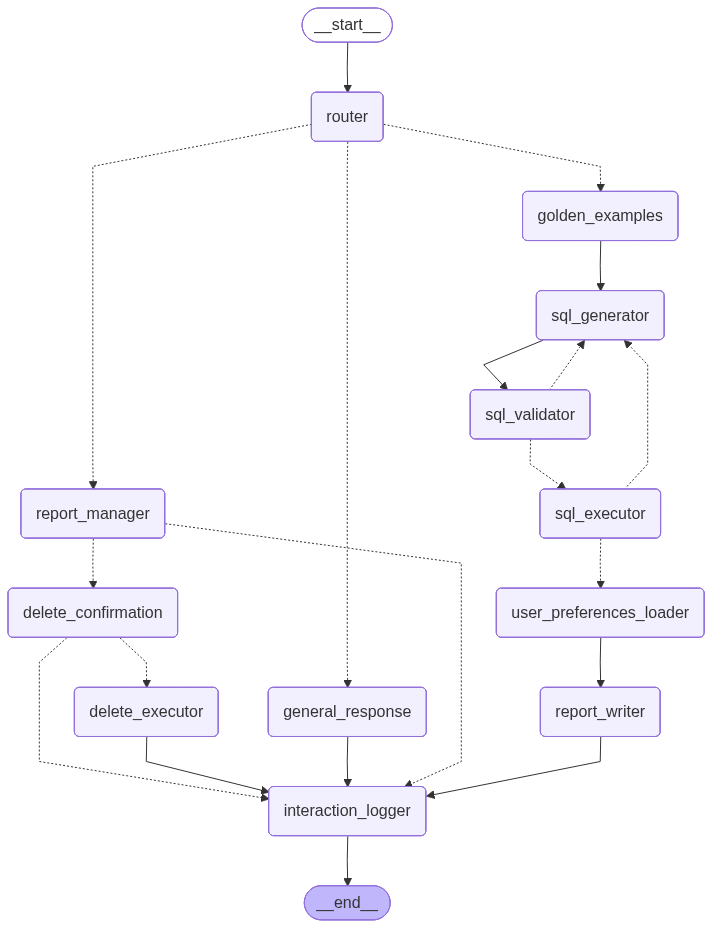
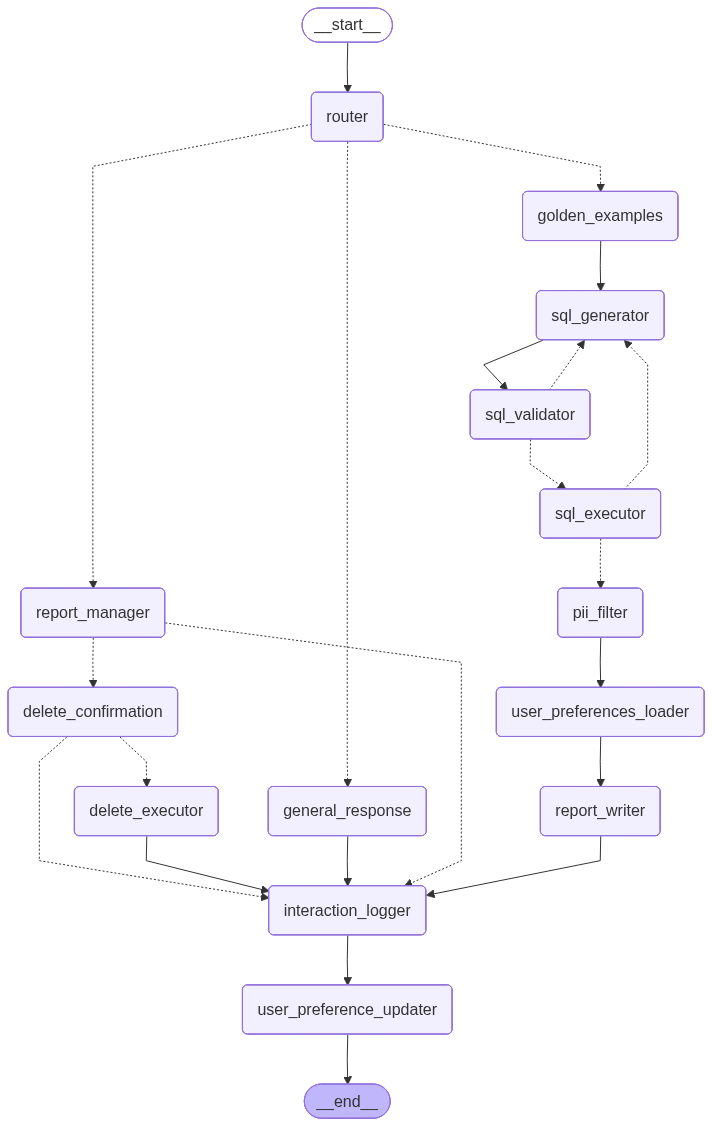
full workflow update

diff --git a/docs/full graph/render_full_graph.py b/docs/full graph/render_full_graph.py
@@ -1,18 +1,20 @@
 """
-Full System Architecture Graph (HLD)
+Full System Architecture Graph
 
 Starting point: our LIVE prototype graph (router -> sql_generator -> sql_executor -> report_writer)
-Extended with all 8 TODO requirements as they would be implemented in production.
+Extended with all 8 requirements as they would be implemented in production.
 
 Requirements mapping:
-  Req 1 - Hybrid Intelligence:     golden_examples (semantic search on golden knowledge)
-  Req 2 - PII Masking:             Built into sql_executor (column-level) + PIIMiddleware on report_writer
-  Req 3 - High-Stakes Oversight:   report_manager -> delete_confirmation -> delete_executor
-  Req 4 - Learning Loop:           user_preferences_loader (user-level) + interaction_logger (system-level)
-  Req 5 - Resilience:              sql_executor -> retry loop back to sql_generator (LIVE)
+  Req 1 - Hybrid Intelligence:     golden_examples (semantic search on golden knowledge from App DB)
+  Req 2 - PII Masking:             pii_filter node (column-level drop) + SQL Generator prompt avoidance
+  Req 3 - High-Stakes Oversight:   report_manager -> delete_confirmation -> delete_executor (saved_reports in App DB)
+  Req 4 - Continuous Improvement:
+           User Level:             user_preference_updater (batch of 10 unprocessed interactions -> LLM evaluation -> App DB)
+           System Level:           interaction_logs curated into golden_knowledge by system integrators
+  Req 5 - Resilience:              sql_executor -> retry loop back to sql_generator (max 3)
   Req 6 - Quality Assurance:       sql_validator (LLM checks SQL matches intent before execution)
-  Req 7 - Logging:                 interaction_logger (metrics, errors, latency tracking)
-  Req 8 - Persona Management:      persona config loaded in report_writer from persona.yaml (LIVE)
+  Req 7 - Logging:                 interaction_logger (writes to interaction_logs table in App DB)
+  Req 8 - Persona Management:      report_writer loads persona_config from App DB (editable by non-devs)
 """
 from typing import TypedDict, Annotated
 from langgraph.graph import StateGraph, START, END
@@ -127,11 +129,27 @@ def delete_executor(state: FullSystemState) -> FullSystemState:
     return state
 
 
+def pii_filter(state: FullSystemState) -> FullSystemState:
+    """Req 2 (PII Masking): Hard-drops PII columns (email, first_name,
+    last_name, street_address) from query results using pandas.
+    Defense in depth after SQL Generator prompt avoidance."""
+    return state
+
+
 def interaction_logger(state: FullSystemState) -> FullSystemState:
-    """Req 7 (Logging) + Req 4 (Learning Loop - System Level):
-    Logs: query, generated SQL, result, latency, error count,
-    PII blocks, retry count, user feedback.
-    Feeds back into golden knowledge for continuous improvement."""
+    """Req 7 (Logging): Writes every interaction to interaction_logs table
+    in App DB. Records: user_id, question, SQL, result, report, latency,
+    error count, retry count, PII blocks, intent, timestamp.
+    Each row has processed_for_preferences=false by default."""
+    return state
+
+
+def user_preference_updater(state: FullSystemState) -> FullSystemState:
+    """Req 4 (Continuous Improvement - User Level): Checks if user has
+    10+ unprocessed interactions in App DB. If yes: fetches them + current
+    preference_profile, sends to LLM for batch evaluation, updates profile.
+    Marks processed interactions. Runs after every report but only
+    does real work every ~10 queries."""
     return state
 
 
@@ -159,7 +177,7 @@ def route_after_execution(state: FullSystemState) -> str:
     """Req 5: Self-correction loop - retry up to 3x on SQL errors."""
     if state.get("error_message") and state.get("retry_count", 0) < 3:
         return "sql_generator"
-    return "user_preferences_loader"
+    return "pii_filter"
 
 
 def route_report_action(state: FullSystemState) -> str:
@@ -188,6 +206,7 @@ workflow.add_node("golden_examples", golden_examples)
 workflow.add_node("sql_generator", sql_generator)
 workflow.add_node("sql_validator", sql_validator)
 workflow.add_node("sql_executor", sql_executor)
+workflow.add_node("pii_filter", pii_filter)
 workflow.add_node("user_preferences_loader", user_preferences_loader)
 workflow.add_node("report_writer", report_writer)
 workflow.add_node("general_response", general_response)
@@ -195,6 +214,7 @@ workflow.add_node("report_manager", report_manager)
 workflow.add_node("delete_confirmation", delete_confirmation)
 workflow.add_node("delete_executor", delete_executor)
 workflow.add_node("interaction_logger", interaction_logger)
+workflow.add_node("user_preference_updater", user_preference_updater)
 
 # ---- Entry ----
 workflow.add_edge(START, "router")
@@ -207,7 +227,6 @@ workflow.add_conditional_edges("router", route_by_intent, {
 })
 
 # ---- Data query path (core pipeline) ----
-# golden_examples -> sql_generator -> sql_validator -> sql_executor
 workflow.add_edge("golden_examples", "sql_generator")
 workflow.add_edge("sql_generator", "sql_validator")
 
@@ -220,10 +239,11 @@ workflow.add_conditional_edges("sql_validator", route_after_validation, {
 # Req 5: Execution can retry (back to sql_generator) or continue
 workflow.add_conditional_edges("sql_executor", route_after_execution, {
     "sql_generator": "sql_generator",
-    "user_preferences_loader": "user_preferences_loader",
+    "pii_filter": "pii_filter",
 })
 
-# Req 4: Load user preferences -> report_writer -> logger
+# Req 2: PII filter -> load user prefs -> report -> logger -> pref updater
+workflow.add_edge("pii_filter", "user_preferences_loader")
 workflow.add_edge("user_preferences_loader", "report_writer")
 workflow.add_edge("report_writer", "interaction_logger")
 
@@ -243,12 +263,13 @@ workflow.add_conditional_edges("delete_confirmation", route_after_confirmation, 
 
 workflow.add_edge("delete_executor", "interaction_logger")
 
-# ---- All paths converge at logger -> END ----
-workflow.add_edge("interaction_logger", END)
+# ---- All paths converge at logger -> preference updater -> END ----
+workflow.add_edge("interaction_logger", "user_preference_updater")
+workflow.add_edge("user_preference_updater", END)
 
 # ---- Compile and render ----
 graph = workflow.compile()
 
-output_path = r"C:\Users\xyada\Desktop\opsfleet langgraph\docs\full graph\full_system_langgraph.png"
+output_path = r"C:\Users\xyada\Desktop\retail-company-langgraph\docs\full graph\full_system_langgraph.png"
 graph.get_graph().draw_mermaid_png(output_file_path=output_path)
 print(f"Full system graph saved to: {output_path}")
